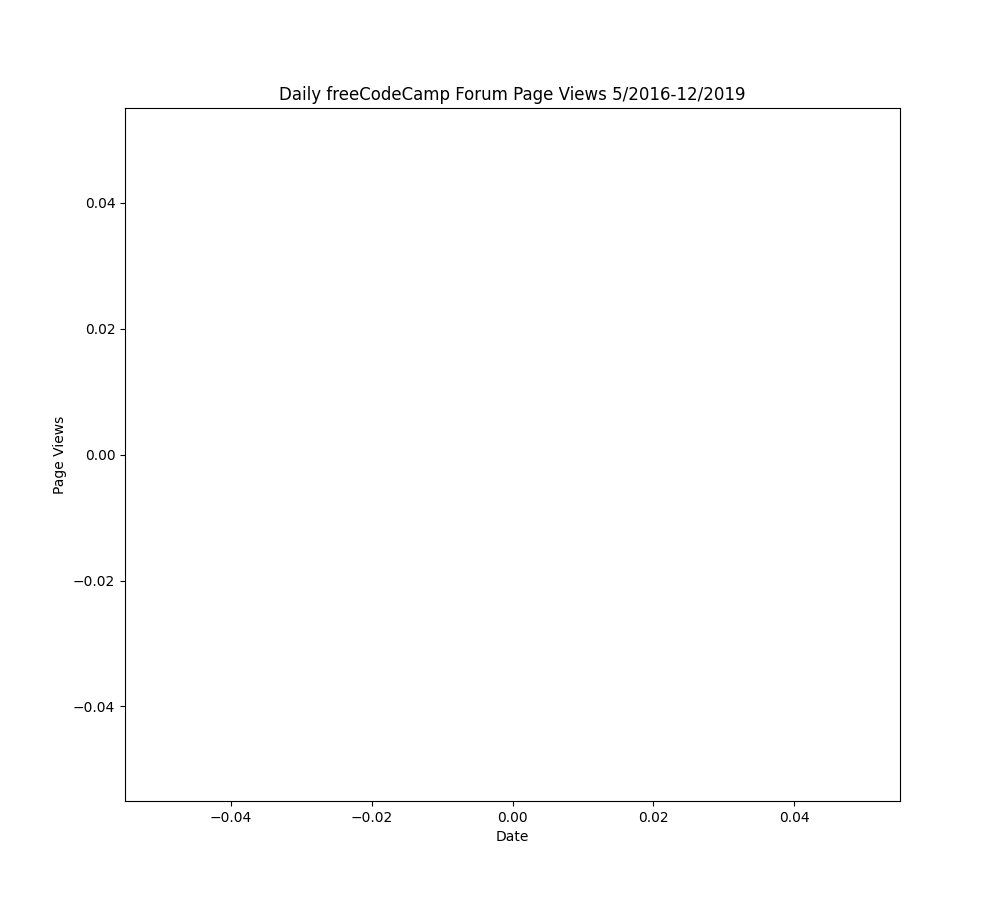
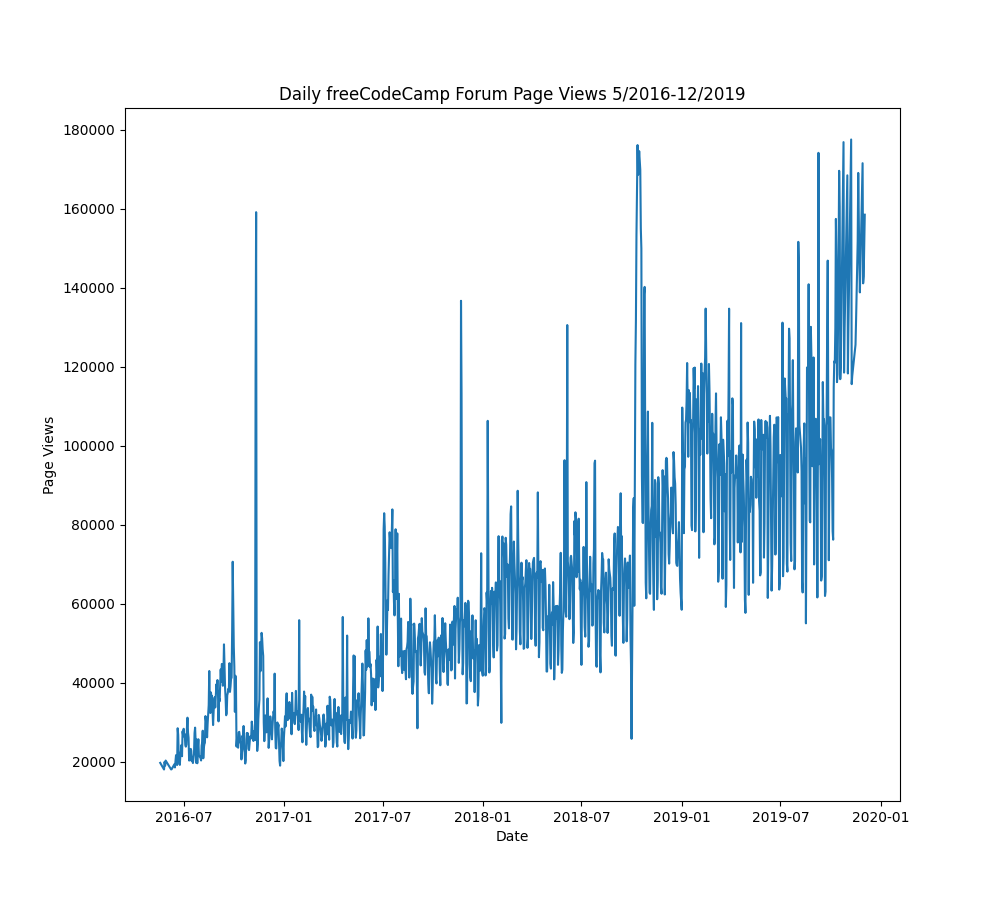
passed data cleaning test and line plot test

diff --git a/time_series_visualizer.py b/time_series_visualizer.py
@@ -12,7 +12,9 @@ df.set_index('date', inplace = True)
 upper_bound = df['value'].quantile(0.025)
 lower_bound = df['value'].quantile(0.975)
 
-df = df.loc[(df['value'] < upper_bound) & (df['value'] > lower_bound)] 
+
+df = df[(df['value'] >= upper_bound) & (df['value'] <= lower_bound)] 
+df.index = pd.to_datetime(df.index)
 
 
 def draw_line_plot():
